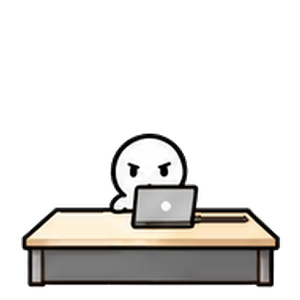
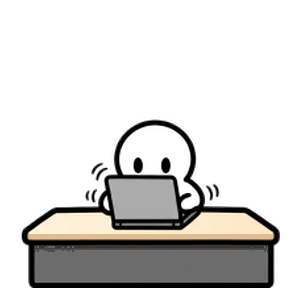
new animation and new item

Changed region(s): [[0.06, 0.39, 0.93, 0.96]]

diff --git a/tests/test_tamatect_shop_foods.py b/tests/test_tamatect_shop_foods.py
@@ -13,7 +13,7 @@ class TamatectShopFoodTests(unittest.TestCase):
                 encoding='UTF-8') as item_file:
             items = json.load(item_file)
 
-        for name in ('Coffee', 'Coke', 'Onigiri', 'Pizza'):
+        for name in ('Coffee', 'Coke', 'Energy Drink', 'Onigiri', 'Pizza', 'Gyudon'):
             with self.subTest(item=name):
                 item = items[name]
                 self.assertGreater(item['cost'], 0)

diff --git a/docs/aec_gameplay.md b/docs/aec_gameplay.md
@@ -42,6 +42,8 @@ Placeable items can be added from the AEC Debug menu with **Add Shop Item…**;
 the importer also supports one-use health consumables. Use a collection item
 from the Backpack to place or withdraw it. Placeable items use one slot each,
 starting with two slots and gaining one per progression level.
+The Tamatect catalog includes a Monitor and Paper & Pen alongside the Desk Lamp.
+Energy Drink and Gyudon are also available as purchasable foods.
 
 Each static layer is stored as a paired PNG and JSON file under
 `res/role/<role>/layers/`. The JSON `inventory_item` field links it to the
